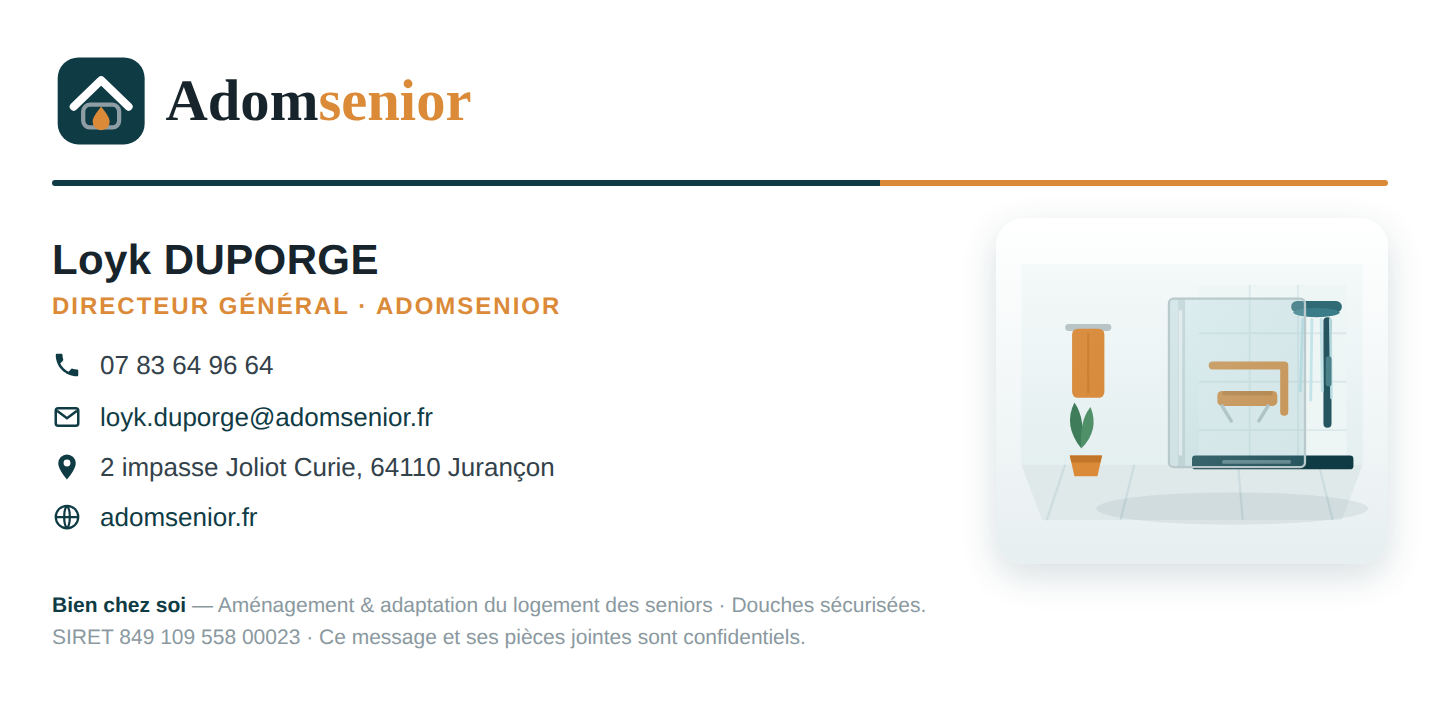
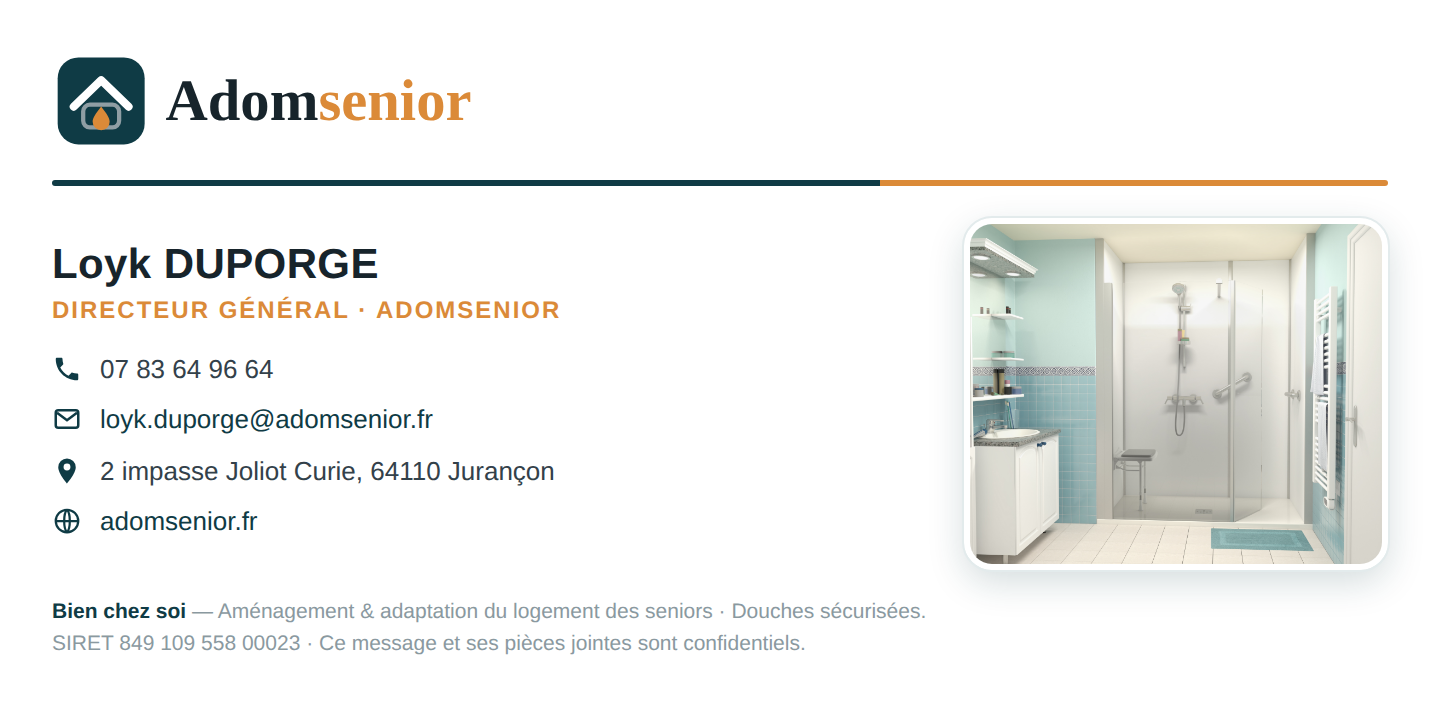
Signatures: integration du vrai rendu 3D (apres01haut_def.jpg) recadre en vignette

diff --git a/audit/assets/build_sig.py b/audit/assets/build_sig.py
@@ -24,8 +24,8 @@ TPL='''<!doctype html><meta charset="utf-8">
  .line{{font-size:13px;color:#33414a;line-height:1.95;display:flex;align-items:center;gap:9px}}
  .line svg{{flex:none}}
  a{{color:#0F3B45;text-decoration:none}}
- .bath{{width:196px;flex:none}}
- .bath svg{{width:196px;height:auto;display:block;border-radius:14px;box-shadow:0 6px 18px rgba(15,59,69,.16)}}
+ .bath{{width:212px;height:176px;flex:none;border-radius:14px;overflow:hidden;box-shadow:0 6px 18px rgba(15,59,69,.18);border:3px solid #ffffff;outline:1px solid #e3ebec}}
+ .bath img{{width:100%;height:100%;object-fit:cover;object-position:47% 58%;display:block}}
  .foot{{font-size:10.5px;color:#8a99a0;margin-top:14px;line-height:1.5}}
  .foot b{{color:#0F3B45}}
 </style>
@@ -41,7 +41,7 @@ TPL='''<!doctype html><meta charset="utf-8">
       <div class="line">{ic_pin} <span>2 impasse Joliot Curie, 64110 Juran&ccedil;on</span></div>
       <div class="line">{ic_web} <a href="https://adomsenior.fr">adomsenior.fr</a></div>
     </div>
-    <div class="bath">{bath}</div>
+    <div class="bath"><img src="douche.jpg" alt="Douche s&eacute;curis&eacute;e"></div>
   </div>
   <div class="foot"><b>Bien chez soi</b> &mdash; Am&eacute;nagement &amp; adaptation du logement des seniors &middot; Douches s&eacute;curis&eacute;es.<br>
   SIRET 849&nbsp;109&nbsp;558&nbsp;00023 &middot; Ce message et ses pi&egrave;ces jointes sont confidentiels.</div>
